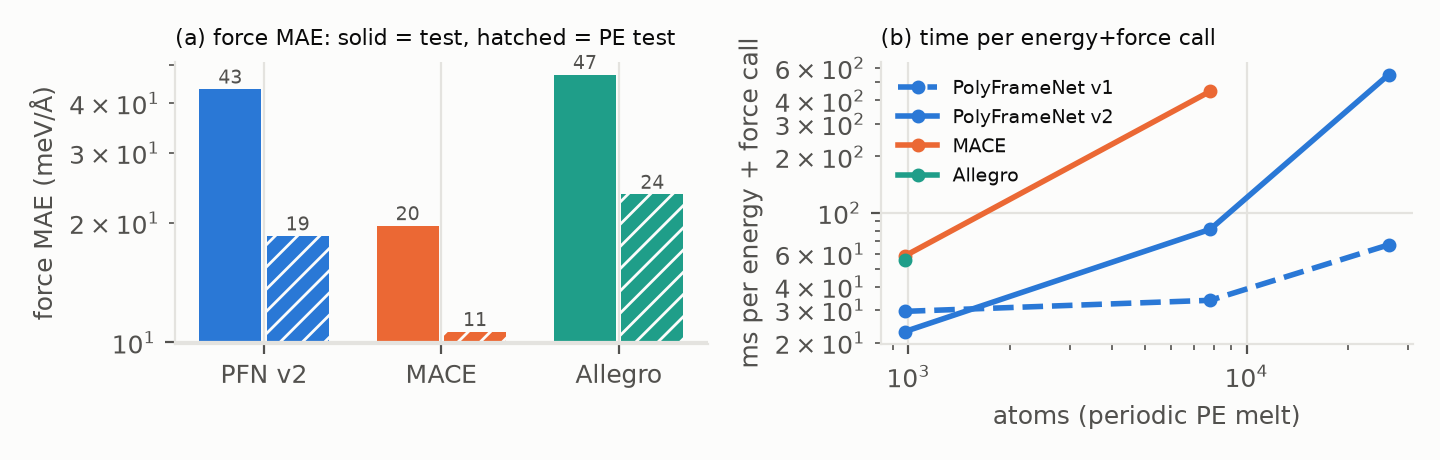
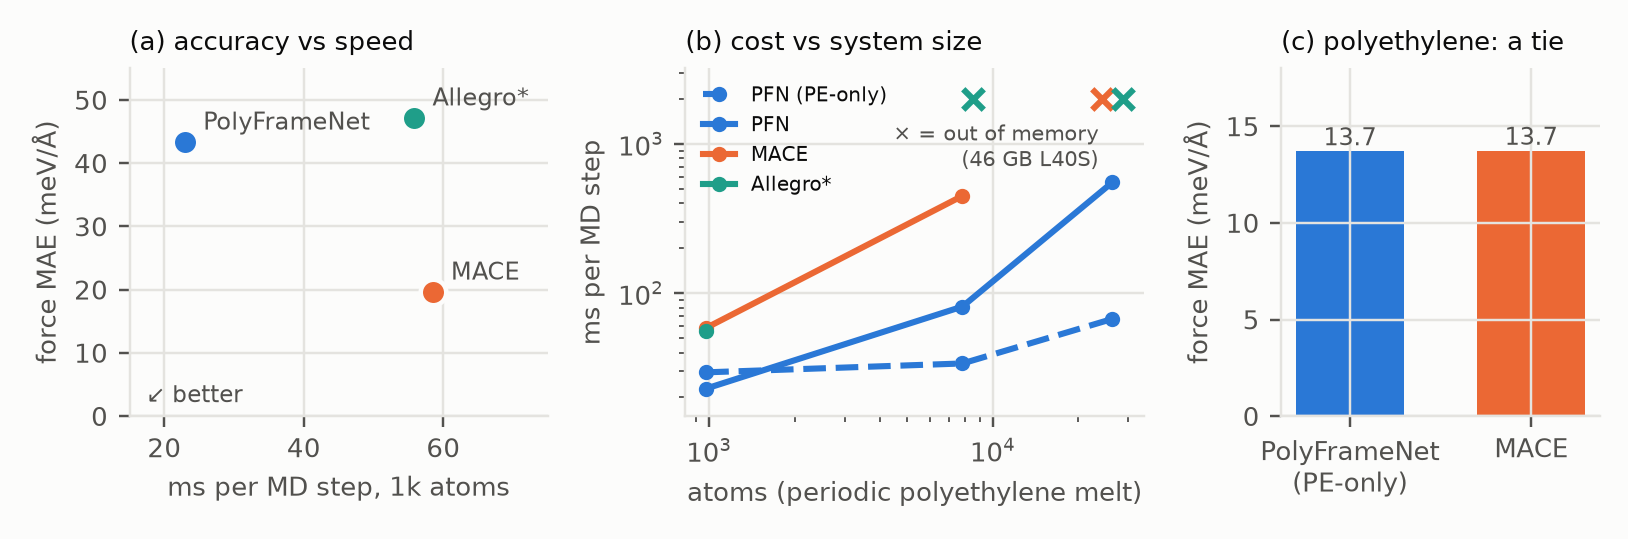
Redesign submission figure: trade-off, OOM markers, polyethylene tie
The figure now has three panels, all drawn from the committed JSON results:
- (a) Accuracy vs speed at 1k atoms: hydrocarbon test force MAE against ms per step.
- (b) Time per MD step against system size. Out-of-memory runs are now marked with an x;
  before, they were silently missing. On the 46 GB L40S, MACE runs out of memory at
  26k atoms, and eager Allegro at 8k and 26k.
- (c) Polyethylene: PE-only PolyFrameNet against MACE trained on the same PE data
  (13.71 vs 13.73 meV/A force MAE, from docs/results/accuracy_test.json).

Axes start at zero or are log-scaled as before. No values or ranges were changed to
shrink the hydrocarbon accuracy gap; panel (a) shows it directly.

diff --git a/scripts/make_submission_figure.py b/scripts/make_submission_figure.py
@@ -1,8 +1,8 @@
-"""One-page submission figure: (a) force MAE per model on the hydrocarbon and PE test
-sets, (b) energy+force time per call vs atom count (log-log).
-Usage: python scripts/make_submission_figure.py <eval dir> <bench dir> <out.png>
-<eval dir> holds <kind>_{test,pe}.json (eval_ase.py); <bench dir> holds
-speed_<kind>_r<reps>.json (bench_ase.py / md_bench.py)."""
+"""Submission figure, three panels, all from the committed JSON results:
+(a) accuracy vs speed trade-off at 976 atoms (hydrocarbon test force MAE vs ms per call),
+(b) time per energy+force call vs system size, out-of-memory runs marked,
+(c) polyethylene: PE-only v1 vs MACE trained on the same PE data (v1 round).
+Usage: python scripts/make_submission_figure.py <eval dir> <bench dir> <v1 acc.json> <out.png>"""
 
 import json
 import pathlib
@@ -13,63 +13,84 @@ import matplotlib
 matplotlib.use("Agg")
 import matplotlib.pyplot as plt  # noqa: E402
 
-# Validated categorical order (reference palette); PolyFrameNet first.
-COLORS = {"v2": "#2a78d6", "ours": "#2a78d6", "v1": "#2a78d6", "mace": "#eb6834",
-          "allegro": "#1f9e89", "deepmd": "#8b5cc4"}
-NAMES = {"v2": "PolyFrameNet v2", "ours": "PolyFrameNet v1", "v1": "PolyFrameNet v1",
-         "mace": "MACE", "allegro": "Allegro", "deepmd": "DeepMD"}
+COLORS = {"v2": "#2a78d6", "v1": "#2a78d6", "mace": "#eb6834", "allegro": "#1f9e89"}
+NAMES = {"v2": "PolyFrameNet", "v1": "PFN (PE-only)", "mace": "MACE",
+         "allegro": "Allegro*"}
 INK, INK2, GRID, SURF = "#0b0b0b", "#52514e", "#e4e3df", "#fcfcfb"
 plt.rcParams.update({
     "figure.facecolor": SURF, "axes.facecolor": SURF, "axes.edgecolor": GRID,
     "axes.labelcolor": INK2, "xtick.color": INK2, "ytick.color": INK2, "text.color": INK,
     "axes.grid": True, "grid.color": GRID, "grid.linewidth": 0.8, "axes.spines.top": False,
-    "axes.spines.right": False, "font.size": 9, "lines.linewidth": 2,
+    "axes.spines.right": False, "font.size": 8.5, "lines.linewidth": 2,
 })
 
 
-def main(eval_dir: pathlib.Path, bench_dir: pathlib.Path, out: pathlib.Path):
-    rows = {}
-    for f in eval_dir.glob("*_*.json"):
-        if f.name == "all.json":
-            continue
-        kind, split = f.stem.rsplit("_", 1)
-        rows.setdefault(kind, {})[split] = json.loads(f.read_text())["f_mae_meV_A"]
-    order = [k for k in ("v2", "mace", "allegro", "deepmd") if k in rows]
-    fig, (a, b) = plt.subplots(1, 2, figsize=(7.2, 2.3))
-    w = 0.38
-    for i, k in enumerate(order):
-        for j, (split, hatch) in enumerate((("test", None), ("pe", "///"))):
-            v = rows[k].get(split)
-            if v is None:
-                continue
-            a.bar(i + (j - 0.5) * w, v, w * 0.92, color=COLORS[k], hatch=hatch,
-                  edgecolor=SURF, linewidth=0)
-            a.annotate(f"{v:.0f}", (i + (j - 0.5) * w, v), xytext=(0, 2),
-                       textcoords="offset points", ha="center", fontsize=7, color=INK2)
-    a.set_xticks(range(len(order)), [NAMES[k].replace("PolyFrameNet ", "PFN ") for k in order])
-    a.set_yscale("log")
+def load(p):
+    return json.loads(pathlib.Path(p).read_text())
+
+
+def main(eval_dir, bench_dir, v1_acc, out):
+    eval_dir, bench_dir = pathlib.Path(eval_dir), pathlib.Path(bench_dir)
+    fmae = {k: load(eval_dir / f"{k}_test.json")["f_mae_meV_A"] for k in ("v2", "mace", "allegro")}
+    speed = {}
+    for k in ("v2", "v1", "mace", "allegro"):
+        for r in (1, 2, 3):
+            f = bench_dir / f"speed_{k}_r{r}.json"
+            if f.exists():
+                d = load(f)
+                speed.setdefault(k, []).append((d["n_atoms"], d.get("s_per_step")))
+    fig, (a, b, c) = plt.subplots(1, 3, figsize=(7.4, 2.45),
+                                  gridspec_kw={"width_ratios": [1.05, 1.15, 0.8]})
+
+    # (a) trade-off at 976 atoms: lower-left is better
+    for k in ("v2", "mace", "allegro"):
+        t = dict(speed[k])[976] * 1000
+        a.scatter(t, fmae[k], s=70, color=COLORS[k], zorder=3, edgecolor=SURF, linewidth=1.5)
+        a.annotate(NAMES[k], (t, fmae[k]), xytext=(6, 4), textcoords="offset points",
+                   fontsize=8, color=INK2)
+    a.set_xlim(15, 75)
+    a.set_ylim(0, 55)
+    a.set_xlabel("ms per MD step, 1k atoms")
     a.set_ylabel("force MAE (meV/Å)")
-    a.set_title("(a) force MAE: solid = test, hatched = PE test", loc="left", fontsize=8)
-    for k in ("v1", "v2", "mace", "allegro", "deepmd"):
-        pts = []
-        for f in bench_dir.glob(f"speed_{k}_r*.json"):
-            r = json.loads(f.read_text())
-            if r.get("s_per_step"):
-                pts.append((r["n_atoms"], r["s_per_step"] * 1000))
-        if not pts:
-            continue
-        pts.sort()
-        b.plot([p[0] for p in pts], [p[1] for p in pts], marker="o", ms=4, color=COLORS[k],
-               label=NAMES[k], linestyle="--" if k == "v1" else "-")
+    a.set_title("(a) accuracy vs speed", loc="left", fontsize=8.5)
+    a.text(0.04, 0.04, "↙ better", transform=a.transAxes, ha="left", fontsize=7.5, color=INK2)
+
+    # (b) scaling, with out-of-memory runs marked at the top edge
+    top = 2000
+    for k in ("v1", "v2", "mace", "allegro"):
+        pts = sorted(p for p in speed.get(k, []) if p[1])
+        oom = sorted(p[0] for p in speed.get(k, []) if not p[1])
+        style = "--" if k == "v1" else "-"
+        b.plot([p[0] for p in pts], [p[1] * 1000 for p in pts], style, marker="o", ms=4,
+               color=COLORS[k], label=NAMES[k].replace("PolyFrameNet", "PFN"))
+        shift = {"mace": 0.92, "allegro": 1.09}.get(k, 1.0)  # keep coincident markers visible
+        for n in oom:
+            b.scatter(n * shift, top, marker="x", s=45, color=COLORS[k], zorder=3, linewidths=2)
+    b.annotate("× = out of memory\n(46 GB L40S)", (2.6e4, top), xytext=(-4, -22),
+               textcoords="offset points", ha="right", fontsize=7, color=INK2)
     b.set_xscale("log")
     b.set_yscale("log")
-    b.set_xlabel("atoms (periodic PE melt)")
-    b.set_ylabel("ms per energy + force call")
-    b.set_title("(b) time per energy+force call", loc="left", fontsize=8)
-    b.legend(frameon=False, fontsize=7)
-    fig.tight_layout()
-    fig.savefig(out, dpi=200)
+    b.set_ylim(15, top * 1.6)
+    b.set_xlabel("atoms (periodic polyethylene melt)")
+    b.set_ylabel("ms per MD step")
+    b.set_title("(b) cost vs system size", loc="left", fontsize=8.5)
+    b.legend(frameon=False, fontsize=6.5, loc="upper left", handlelength=1.6)
+
+    # (c) polyethylene, both trained on the same PE data
+    v1 = load(v1_acc)
+    vals = [v1["ours"]["f_mae_meV_A"], v1["mace"]["f_mae_meV_A"]]
+    bars = c.bar([0, 1], vals, 0.6, color=[COLORS["v1"], COLORS["mace"]])
+    for x, v in zip([0, 1], vals, strict=True):
+        c.annotate(f"{v:.1f}", (x, v), xytext=(0, 2), textcoords="offset points", ha="center",
+                   fontsize=8, color=INK2)
+    c.set_xticks([0, 1], ["PolyFrameNet\n(PE-only)", "MACE"])
+    c.set_ylim(0, 18)
+    c.set_ylabel("force MAE (meV/Å)")
+    c.set_title("(c) polyethylene: a tie", loc="left", fontsize=8.5)
+    del bars
+    fig.tight_layout(w_pad=1.2)
+    fig.savefig(out, dpi=220)
 
 
 if __name__ == "__main__":
-    main(*map(pathlib.Path, sys.argv[1:4]))
+    main(*sys.argv[1:5])
